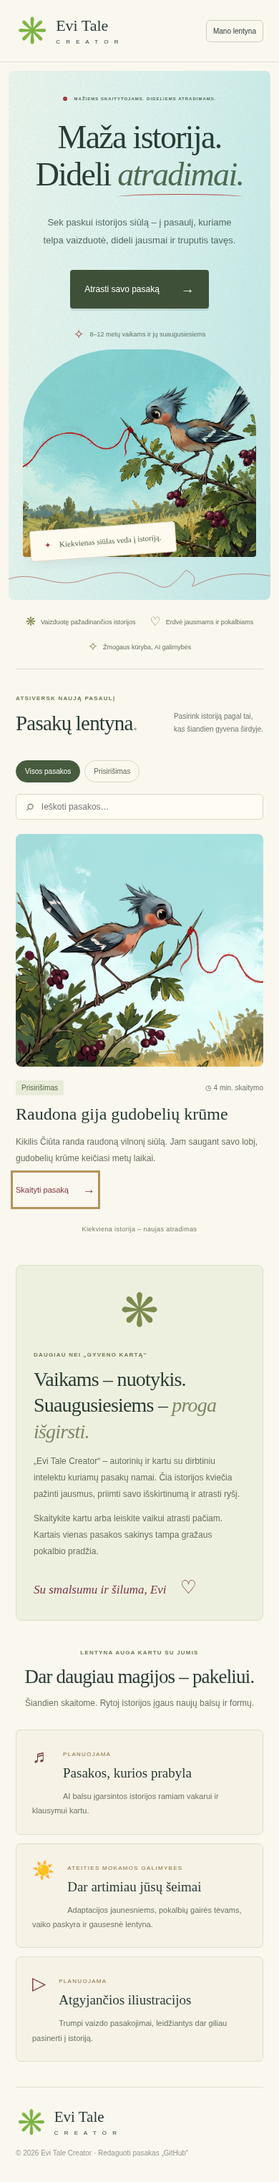
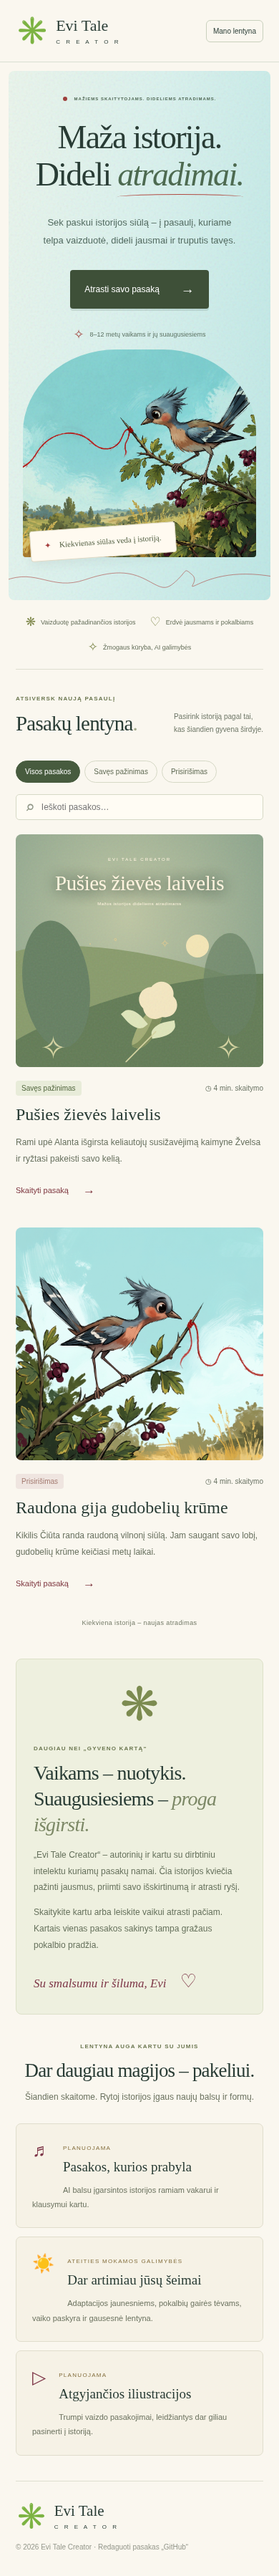
Add Pušies žievės laivelis to the story library

diff --git a/content/stories/pusies-zieves-laivelis.md b/content/stories/pusies-zieves-laivelis.md
@@ -1,0 +1,35 @@
+---
+id: pusies-zieves-laivelis
+title: Pušies žievės laivelis
+topic: Savęs pažinimas
+status: published
+color: garden
+sample: false
+image:
+imageAlt:
+desc: Rami upė Alanta išgirsta keliautojų susižavėjimą kaimyne Žvelsa ir ryžtasi pakeisti savo kelią.
+---
+
+Alanta mėgo kutenti į vandenį įmerktas gluosnio šakas ir ant jų apatinių lapų mėtyti saulės zuikučius. Ji tekėjo neskubėdama, plačia kilpa apsukdama drėgną pievą, kad tik ilgiau pabūtų prie seno medinio lieptelio. Nuo įkaitusių jo lentų kvepėjo sakais ir vasaros dulkėmis. Kai kaimo vaikai čia tupėdavo ir leisdavo į vandenį pušies žievės laivelius su plunksnų burėmis, Alanta sulaikydavo kvapą – plukdydavo juos taip atsargiai, kad nė vienas neapsiverstų, ir dar palaukdavo prie posūkio, kol basos pėdos spės atbėgti krantu.
+
+Kitoje kalvos pusėje, per akmenuotą tarpeklį, lėkė Žvelsa. Ji linksmai daužėsi į riedulius, taškydamasi šaltais sidabro purslais, ir kartais per vėją šūktelėdavo kaimynei labas.
+
+Vieną popietę ant Alantos lieptelio sustojo du keliautojai. Jie nusiplovė rankas ramiame vandenyje, bet į pačią upę beveik nepažiūrėjo.
+
+– Ar girdėjai, kaip už kalvos šniokščia Žvelsa? – susižavėjęs tarė vienas. – Ten tai bent jėga! Vanduo net verda. Gali žiūrėti valandų valandas.
+
+Keliautojai nuėjo, o Alantos gelmė staiga pasidarė sunki ir drumzlina. Ji pažvelgė į savo dugną: ten tingiai lingavo maurai, dumble snaudė karosai. Jokio šniokštimo. Tik lėtas, nuobodus vingis.
+
+Nuo tos dienos Alantai ėmė gelti šonus kaskart, kai vėjas atnešdavo tolimą Žvelsos ūžesį. Ji ėmė pykti ant savo lėtų posūkių ir gluosnio šaknų, kurios kabinosi į srovę. Bandydama sukelti bent vieną baltą purslą, upė iš visų jėgų bloškėsi į vienintelį pakrantės akmenį, bet tepakilo tik keli drumzlini lašai. Kai rudenį ant lieptelio atbėgęs berniukas paleido žievės laivelį, Alanta net nepažvelgė į jį – piktai stumtelėjo srove, ir laivelis tuoj pat įstrigo šlapiose nendrėse.
+
+Prieš pat ilgąją Alantos kilpą per pievą ėjo senas, sausas griovys. Jis tiesiai kirto šlaitą ir žemiau vėl įsirėžė į upės vagą, aplenkdamas ir gluosnį, ir lieptelį.
+
+Kai pavasarį sniegas ėmė tirpti ir Alanta patvino, ji apsisprendė. Užuot ramiai plaukusi į savo senąją kilpą, upė visu svoriu užgulė statesnį griovio šlaitą. Ji graužė velėną, plėšė žolių šaknis ir vertė molio grumstus. Siauras griovys platėjo, gilėjo, kol galiausiai visa srovė su trenksmu šovė naujuoju, tiesiu keliu.
+
+Alanta džiūgavo. Krisdama stačiu šlaitu, ji pagaliau šniokštė! Jos nugara putojo, vanduo daužėsi į atidengtus akmenis, keldamas šaltų purslų debesis. Ji buvo greita. Ji jautėsi galinga ir gyva.
+
+Tačiau tiesus šlaitas greitai baigėsi, ir srovė išsiveržė į plačią, lėkštą žemumą. Čia vanduo neteko greičio, išsiliejo ir vėl sulėtėjo. Alanta apsidairė. Aplink plytėjo tik tuščios karklų dykros – nei senojo gluosnio, nei šiltų lieptelio lentų, kuriomis taip smagiai bėgiodavo basi vaikai.
+
+Praėjo kelios savaitės. Vieną rytą prie naujojo, molėto kranto nedrąsiai priėjo mergaitė. Ji atsargiai, beveik klimpdama į vandenį įleido kreivą žievės laivelį, papuoštą storu raudonu siūlu. Už kalvos vėjas vėl sušniokštė Žvelsos purslais, ir Alantai trumpam suspaudė krūtinę. Tačiau ji prisivertė pažvelgti į liūdną mergaitės veidą, į jos taip kruopščiai atrinktą mažą žievės gabalėlį ir pasiryžo - upė atsargiai pasigavo laivelį, leido jam linksmai apsisukti mažame sūkuryje ir lėtai paplukdė pakrante, taikydamasi prie mažų, per žolę bėgančių pėdų. Ji vėl turėjo ką nešti. O greta jos vėl skambėjo vaikiškas, skardus lyg varpelis, juokas.
+
+Tik aukščiau slėnyje, ten, kur anksčiau vinguriavo senoji upės kilpa, dabar telkšojo vos kelios džiūstančios balutės. Senasis medinis lieptelis po gluosniu stovėjo tylus ir sausas, pakibęs virš pamažu žolėmis želiančio dugno.
